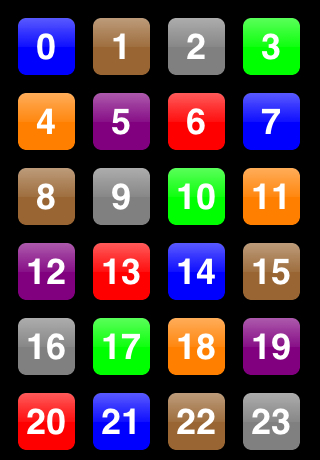
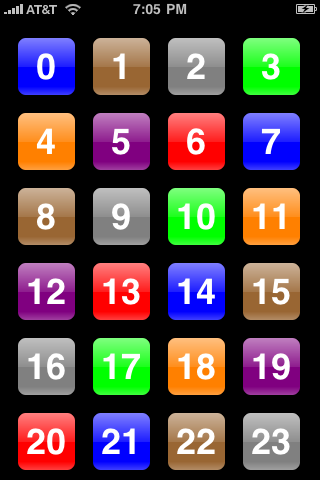
Give tiles a little glow on the bottom

diff --git a/Classes/Tile.m b/Classes/Tile.m
@@ -36,29 +36,30 @@
 - (void)setGlossGradientProperties {
     static NSArray *colors = nil;
     if (colors == nil) {
-        UIColor *colorTop = [UIColor colorWithRed:1.0f green:1.0f blue:1.0f alpha:0.35f];
-        UIColor *colorMid = [UIColor colorWithRed:1.0f green:1.0f blue:1.0f alpha:0.06f];    
-        colors = [NSArray arrayWithObjects:(id)colorTop.CGColor,
-                                           (id)colorMid.CGColor,
-                                           nil];
+        colors = [NSArray arrayWithObjects:
+                  (id)[UIColor colorWithWhite:1.0f alpha:0.50f].CGColor,
+                  (id)[UIColor colorWithWhite:1.0f alpha:0.12f].CGColor,
+                  (id)[UIColor colorWithWhite:1.0f alpha:0.00f].CGColor,
+                  (id)[UIColor colorWithWhite:1.0f alpha:0.00f].CGColor,
+                  (id)[UIColor colorWithWhite:1.0f alpha:0.25f].CGColor,
+                  nil];
         [colors retain];
     }
     
     static NSArray *locations = nil;
     if (locations == nil) {
-        locations = [NSArray arrayWithObjects:[NSNumber numberWithFloat:0.0],
-                                              [NSNumber numberWithFloat:1.0],
-                                              nil];
+        locations = [NSArray arrayWithObjects:
+                     [NSNumber numberWithFloat:0.0f],
+                     [NSNumber numberWithFloat:0.5f],
+                     [NSNumber numberWithFloat:0.5f],
+                     [NSNumber numberWithFloat:0.85f],
+                     [NSNumber numberWithFloat:1.0f],
+                     nil];
         [locations retain];
     }
     
-    static CGPoint startPoint = { 0.5f, 0.0f };
-    static CGPoint endPoint = { 0.5f, 0.5f };
-    
     self.colors = colors;
     self.locations = locations;
-    self.startPoint = startPoint;
-    self.endPoint = endPoint;
 }
 
 
